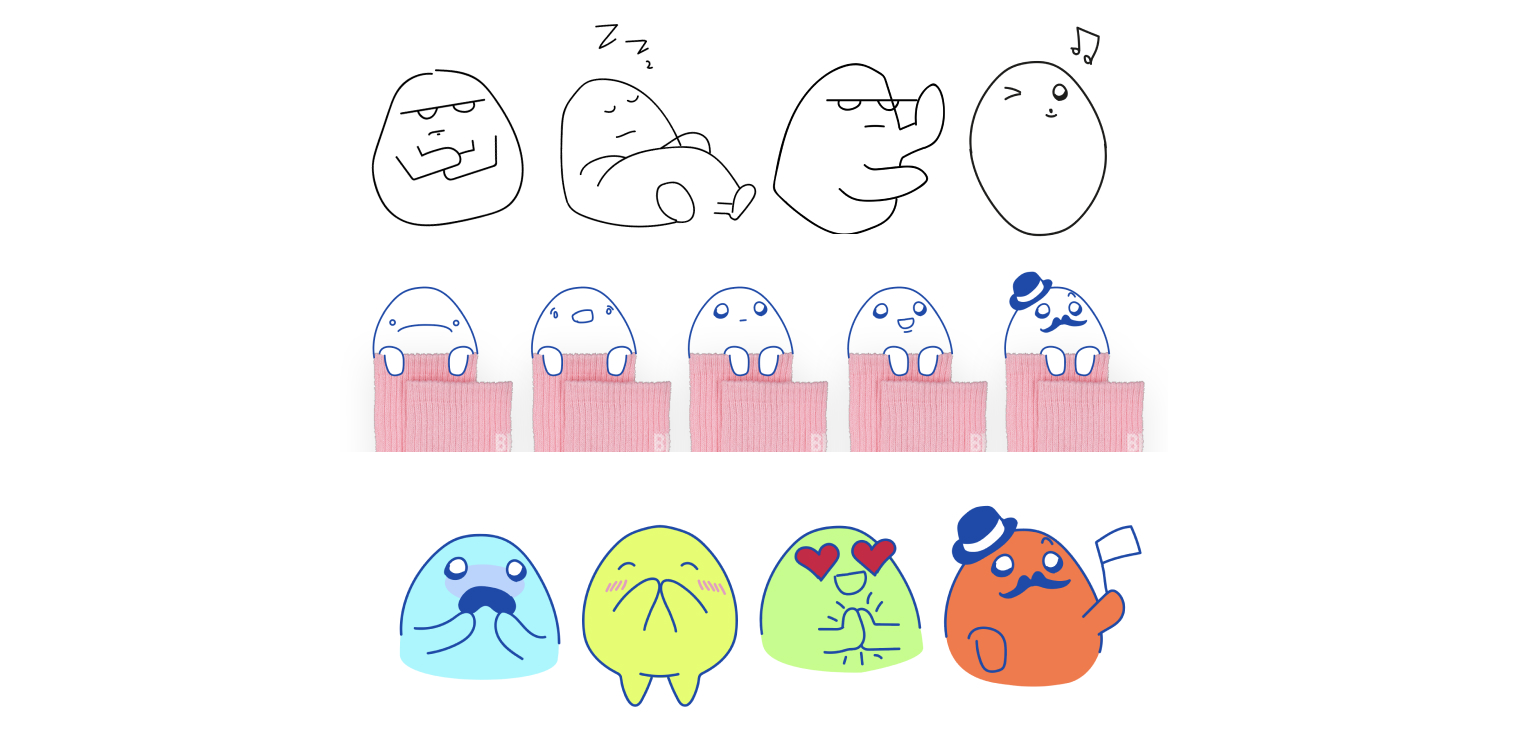
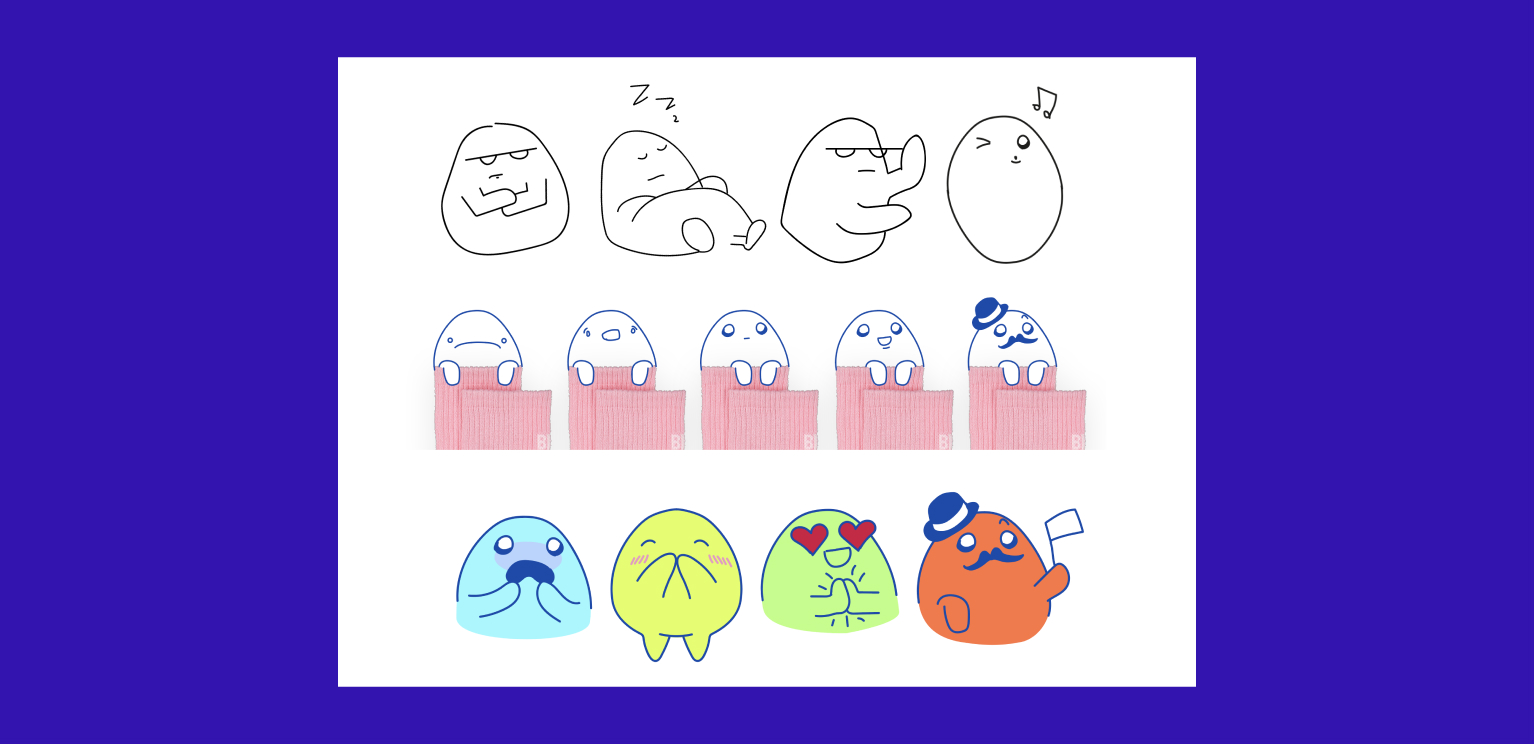
big mascot time party

diff --git a/happy-mascot-happy-time.html b/happy-mascot-happy-time.html
@@ -93,7 +93,9 @@
 <section class="project-content">
   
   <img class="cover-img" src="img/projects/hmht/hmht-cover.jpg">
+  <img class="cover-img" src="img/projects/hmht/hmht-full.jpg">
   <img class="cover-img" src="img/projects/hmht/hmht-process.jpg">
+  <img class="cover-img" src="img/projects/hmht/hmht-mascots.jpg">
   <img class="cover-img" src="img/projects/hmht/hmht-launch.jpg">
   <img class="cover-img" src="img/projects/hmht/hmht-app.jpg">
 
@@ -104,7 +106,7 @@
 
 
 <!-- Marquee Loop -->
-  <script type="text/javascript" src="js/main.js"></script>
+  <script type="text/javascript" src="js/case-study.js"></script>
 
 <!-- Analytics -->
   <script>

diff --git a/js/case-study.js b/js/case-study.js
@@ -1,0 +1,23 @@
+
+
+function makeMarque() {
+    // get all elements with a class name
+    const marquee = document.getElementsByClassName('marquee');
+
+    // convert 'html array' into a JS array
+    // 'map' over each item in the array
+    Array.from(marquee).map((span, i)=>{
+      // span.style.fontSize = Math.random(i*100) * 100 + 'px'
+      // span.style.color = 'rgba(' + Math.random(i) * 255 + '255, 255, 1)'
+      let title  = span.textContent;
+      let marqueeText = new Array(50).fill(title).join(' — ')
+      span.innerHTML = marqueeText
+    })
+
+  }
+makeMarque();
+
+
+
+
+ 

diff --git a/js/main.js b/js/main.js
@@ -18,9 +18,6 @@ const randomItem = taglines[Math.floor(Math.random()*taglines.length)];
 document.querySelector(".tagline").innerHTML = randomItem;
 
 
-
-
-
 function makeMarque() {
     // get all elements with a class name
     const marquee = document.getElementsByClassName('marquee');
